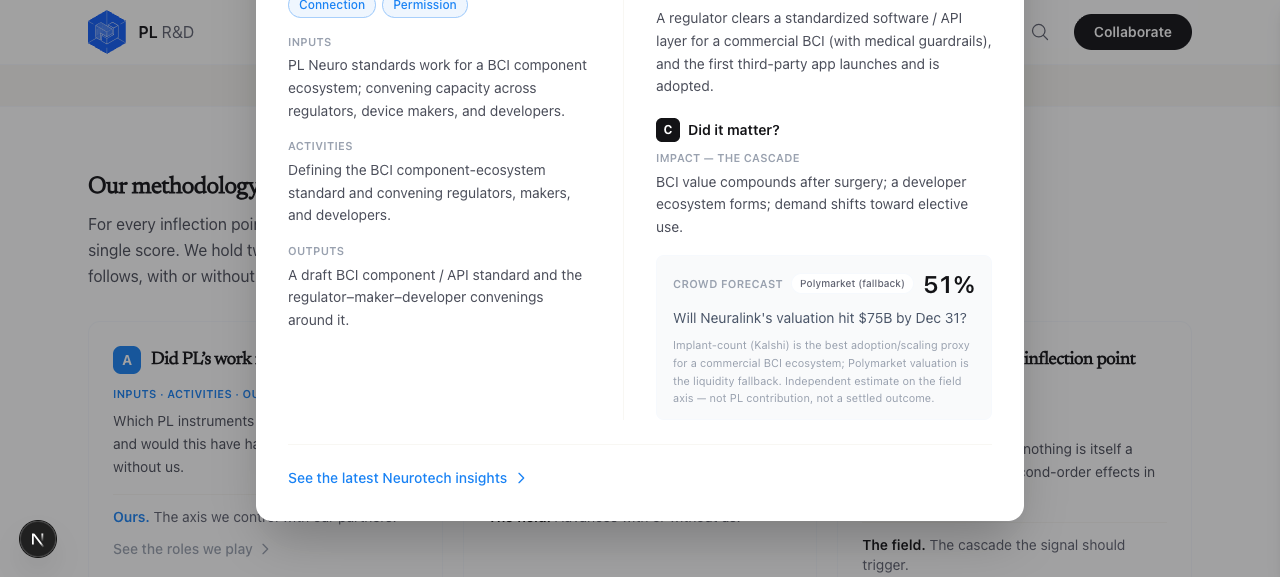
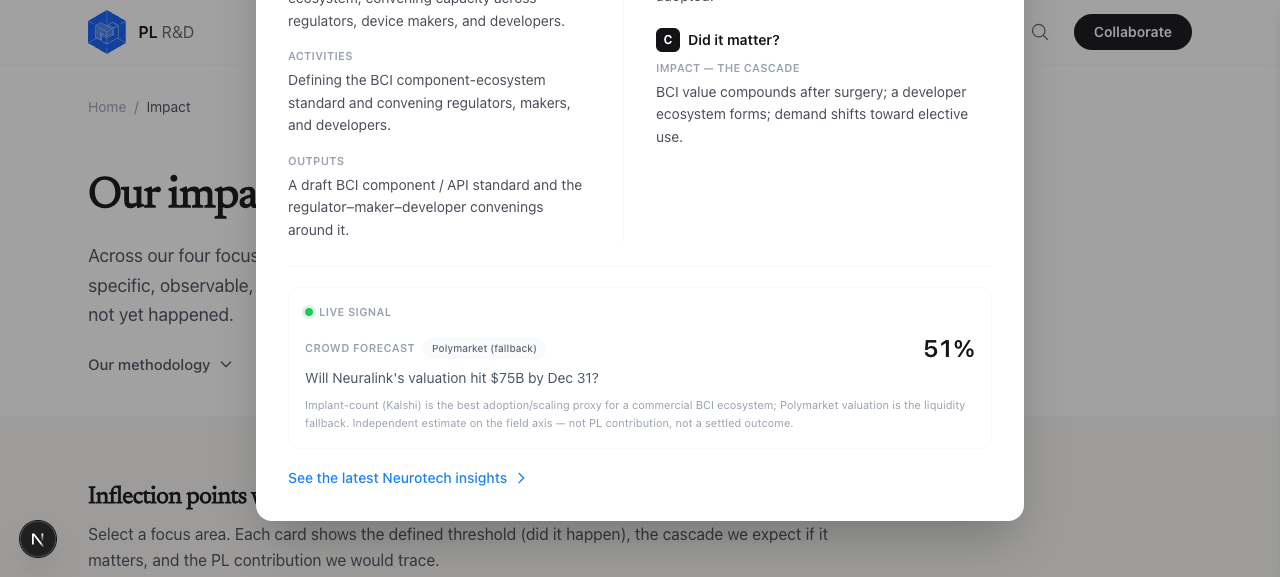
impact: move crowd forecast into the horizontal Live-signal band
Per review: the crowd read now sits inside the modal's full-width Live
signal bar (alongside PL-backed live outputs) instead of under
'Impact — the cascade' in the field column. Gap points show a separate
crowd-forecast note. Field-vs-contribution caveat preserved.

diff --git a/src/components/ImpactDashboard.tsx b/src/components/ImpactDashboard.tsx
@@ -324,27 +324,17 @@ function InflectionCard({
   )
 }
 
-/** Fuller crowd-odds read for the FIELD column of the modal (with market link). */
-function CrowdSignalBlock({ signal }: { signal: MarketSignal }) {
-  if (signal.match === 'gap') {
-    return (
-      <div className="mt-4 rounded-lg border border-dashed border-gray-200 bg-gray-50 px-4 py-3">
-        <div className="mb-1 text-[11px] font-semibold uppercase tracking-wide text-gray-400">
-          Crowd forecast
-        </div>
-        <p className="text-sm leading-relaxed text-gray-500">{signal.note}</p>
-      </div>
-    )
-  }
+/** Crowd-forecast row for the modal's horizontal Live-signal band (with market link). */
+function CrowdForecast({ signal, divider = false }: { signal: MarketSignal; divider?: boolean }) {
   const pct = signal.prob != null ? Math.round(signal.prob * 100) : null
   return (
-    <div className="mt-4 rounded-lg border border-gray-200 bg-gray-50 px-4 py-3">
-      <div className="mb-2 flex items-center gap-2">
+    <div className={divider ? 'mt-3 border-t border-gray-100 pt-3' : ''}>
+      <div className="mb-1 flex items-center gap-2">
         <span className="text-[11px] font-semibold uppercase tracking-wide text-gray-400">
           Crowd forecast
         </span>
         {signal.platform && (
-          <span className="rounded-full border border-gray-200 bg-white px-2 py-0.5 text-[10px] font-medium text-gray-500">
+          <span className="rounded-full border border-gray-200 bg-gray-50 px-2 py-0.5 text-[10px] font-medium text-gray-500">
             {PLATFORM_LABEL[signal.platform]}
             {signal.viaFallback ? ' (fallback)' : ''}
           </span>
@@ -484,46 +474,63 @@ function InflectionModal({
               </div>
               <div className="mb-1 text-[11px] font-semibold uppercase tracking-wide text-gray-400">Impact — the cascade</div>
               <p className="text-sm leading-relaxed text-gray-600">{point.cascade}</p>
-              {signal && <CrowdSignalBlock signal={signal} />}
             </div>
           </div>
 
-          {/* Live evidence (Q3 only — never a Q2 reading) */}
-          {/* Full-width band: live signal (when present) + latest insights for the area */}
+          {/* Full-width Live-signal band: PL-backed live outputs (Q3) + crowd forecast (field axis). */}
           <div className="mt-6 border-t border-gray-100 pt-5">
-            {point.liveEvidence && (
-              <a
-                href={point.liveEvidence.href}
-                className="mb-4 block rounded-xl border border-gray-200 bg-white p-4 transition-colors hover:border-blue/40 no-underline"
-              >
-                <div className="mb-2 text-[11px] font-semibold uppercase tracking-wide text-gray-400">
-                  Live signal
-                </div>
-                <div className="flex items-center gap-2 text-sm font-medium text-black">
+            {(point.liveEvidence || (signal && signal.match !== 'gap')) && (
+              <div className="mb-4 rounded-xl border border-gray-200 bg-white p-4">
+                <div className="mb-3 flex items-center gap-1.5 text-[11px] font-semibold uppercase tracking-wide text-gray-400">
                   <span className="relative flex h-2 w-2">
                     <span className="absolute inline-flex h-full w-full animate-ping rounded-full" style={{ backgroundColor: `${LIVE_COLOR}99` }} />
                     <span className="relative inline-flex h-2 w-2 rounded-full" style={{ backgroundColor: LIVE_COLOR }} />
                   </span>
-                  {point.liveEvidence.label}
-                  <svg className="ml-auto h-4 w-4 text-gray-300" fill="none" stroke="currentColor" viewBox="0 0 24 24">
-                    <path strokeLinecap="round" strokeLinejoin="round" strokeWidth={2} d="M9 5l7 7-7 7" />
-                  </svg>
+                  Live signal
                 </div>
-                {metrics && metrics.length > 0 && (
-                  <div className="mt-3 flex flex-wrap gap-x-6 gap-y-2">
-                    {metrics.map((m) => (
-                      <span key={m.label} className="flex items-baseline gap-1.5">
-                        <span className="text-lg font-semibold text-black">{m.value}</span>
-                        <span className="text-xs text-gray-500">{m.label}</span>
-                      </span>
-                    ))}
-                  </div>
+
+                {point.liveEvidence && (
+                  <a
+                    href={point.liveEvidence.href}
+                    className="-m-1 block rounded-lg p-1 no-underline transition-colors hover:bg-gray-50"
+                  >
+                    <div className="flex items-center gap-2 text-sm font-medium text-black">
+                      {point.liveEvidence.label}
+                      <svg className="ml-auto h-4 w-4 text-gray-300" fill="none" stroke="currentColor" viewBox="0 0 24 24">
+                        <path strokeLinecap="round" strokeLinejoin="round" strokeWidth={2} d="M9 5l7 7-7 7" />
+                      </svg>
+                    </div>
+                    {metrics && metrics.length > 0 && (
+                      <div className="mt-3 flex flex-wrap gap-x-6 gap-y-2">
+                        {metrics.map((m) => (
+                          <span key={m.label} className="flex items-baseline gap-1.5">
+                            <span className="text-lg font-semibold text-black">{m.value}</span>
+                            <span className="text-xs text-gray-500">{m.label}</span>
+                          </span>
+                        ))}
+                      </div>
+                    )}
+                    <p className="mt-3 text-xs leading-relaxed text-gray-500">
+                      {LIVE_SIGNAL_NOTE}
+                    </p>
+                  </a>
                 )}
-                <p className="mt-3 text-xs leading-relaxed text-gray-500">
-                  {LIVE_SIGNAL_NOTE}
-                </p>
-              </a>
+
+                {signal && signal.match !== 'gap' && (
+                  <CrowdForecast signal={signal} divider={!!point.liveEvidence} />
+                )}
+              </div>
             )}
+
+            {signal && signal.match === 'gap' && (
+              <div className="mb-4 rounded-xl border border-dashed border-gray-200 bg-gray-50 px-4 py-3">
+                <div className="mb-1 text-[11px] font-semibold uppercase tracking-wide text-gray-400">
+                  Crowd forecast
+                </div>
+                <p className="text-sm leading-relaxed text-gray-500">{signal.note}</p>
+              </div>
+            )}
+
             <a
               href={`/insights/?area=${point.area}`}
               className="inline-flex items-center gap-1.5 text-sm font-medium text-blue hover:underline"